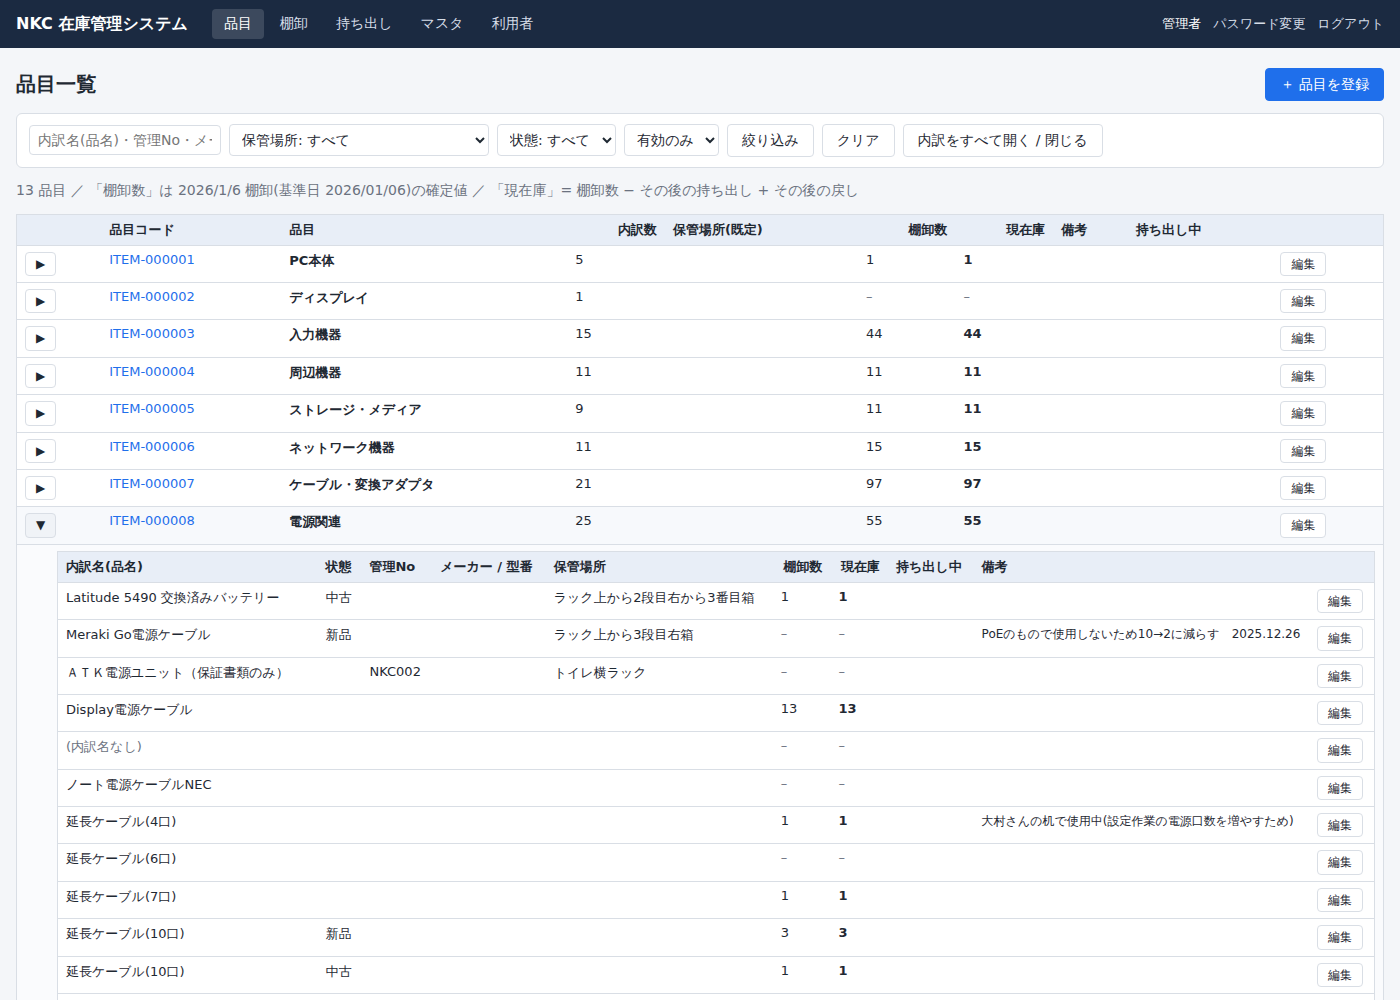
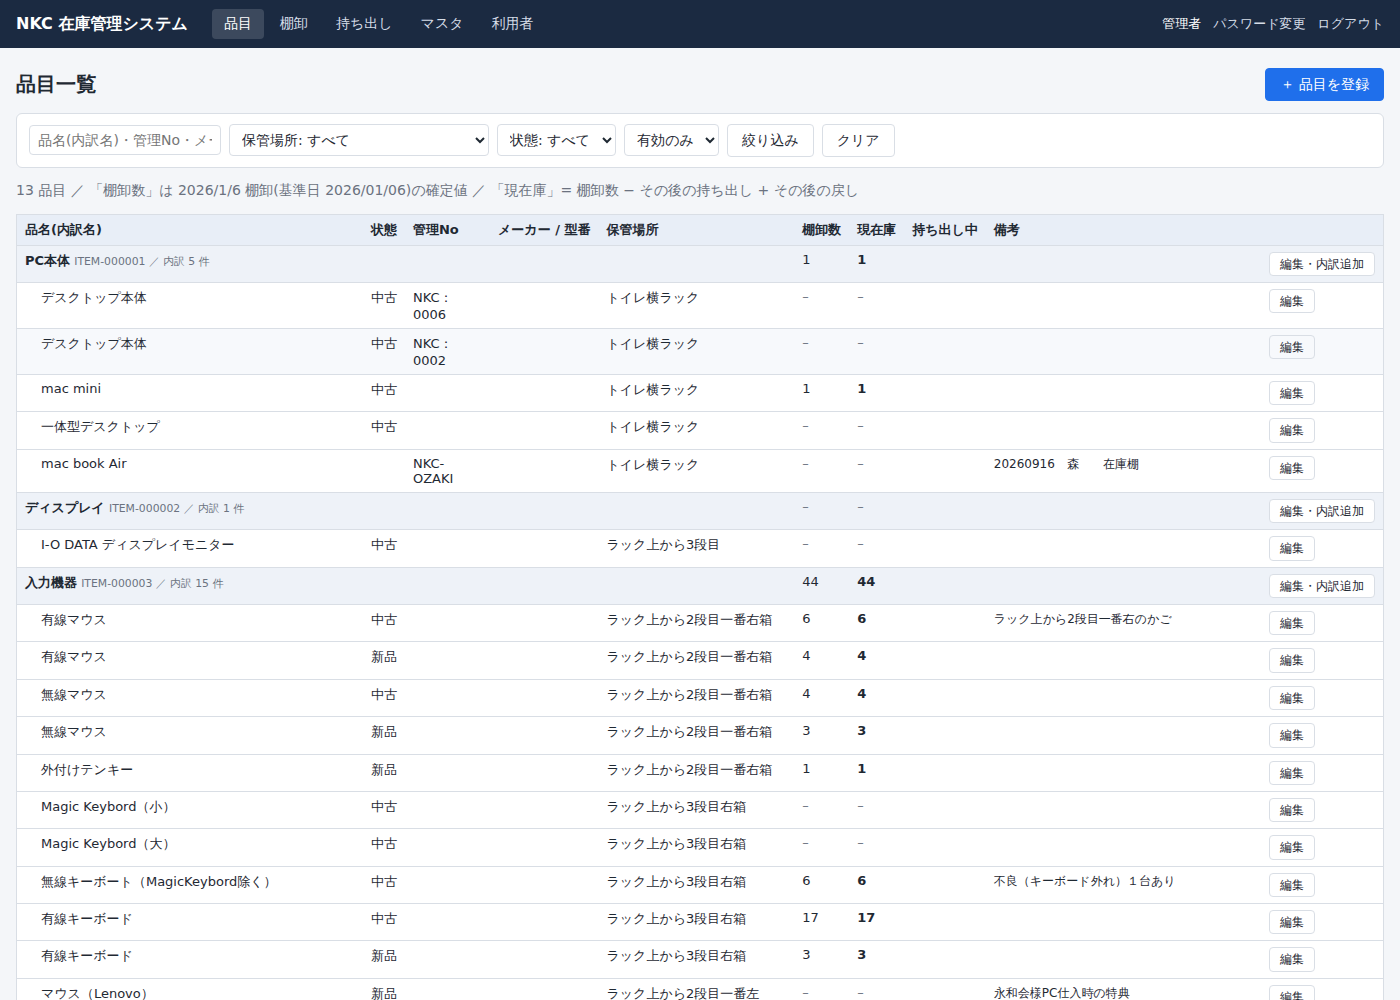
品目一覧: 開閉ボタンを廃止し、品目の見出し行の下に内訳(品名)を常に表示
Claude-Session: https://claude.ai/code/session_01Ri3r8gT3MYmawSEEk5gsQq

diff --git a/webapp/assets/style.css b/webapp/assets/style.css
@@ -186,8 +186,8 @@ tr.entry-row.entered .item-name { }
 .table-units td { padding: 4px; }
 
 tr.item-head td { background: #eef2f8; font-size: 13px; }
-tr.unit-rows > td { background: #fafbfd; padding: 6px 8px 10px 40px; }
-.table-inner.table-cards { margin: 0; width: 100%; }
+tr.item-head .item-link { color: inherit; }
+.table-items tr.unit-line td:first-child { padding-left: 24px; }
 .unit-radios { display: inline-flex; gap: 8px; white-space: nowrap; }
 .unit-radios label { display: inline-flex; align-items: center; gap: 2px; }
 .form-grid.wide { max-width: none; }
@@ -241,9 +241,8 @@ tr.unit-rows > td { background: #fafbfd; padding: 6px 8px 10px 40px; }
   .table-cards .w-notes { width: 100%; }
   .table-cards .notes-cell, .table-cards .checkout-cell { max-width: none; }
   .table-cards .unit-list { width: 100%; }
-  tr.unit-rows > td { padding: 4px 0 0; }
   .table-cards tr.item-head { background: #eef2f8; }
-  .table-cards tr.unit-rows { border: none; padding: 0; background: transparent; }
+  .table-items tr.unit-line td:first-child { padding-left: 0; }
   .table-catsum { min-width: 0; }
   .table-catsum th:nth-child(5), .table-catsum td:nth-child(5) { display: none; }   /* 前回合計は省略 */
   .cards-3 { grid-template-columns: 1fr; }

diff --git a/webapp/assets/app.js b/webapp/assets/app.js
@@ -306,25 +306,3 @@
   }
 })();
 
-// ---- 品目一覧: 内訳の開閉 ----
-(function () {
-  'use strict';
-  var toggles = document.querySelectorAll('.unit-toggle');
-  if (!toggles.length) { return; }
-  function setOpen(btn, open) {
-    var rows = document.querySelector('tr.unit-rows[data-item="' + btn.getAttribute('data-item') + '"]');
-    rows.hidden = !open;
-    btn.textContent = open ? '▼' : '▶';
-    btn.setAttribute('aria-expanded', open ? 'true' : 'false');
-  }
-  toggles.forEach(function (btn) {
-    btn.addEventListener('click', function () { setOpen(btn, btn.getAttribute('aria-expanded') !== 'true'); });
-  });
-  var all = document.getElementById('toggle-all-units');
-  if (all) {
-    all.addEventListener('click', function () {
-      var anyClosed = Array.prototype.some.call(toggles, function (b) { return b.getAttribute('aria-expanded') !== 'true'; });
-      toggles.forEach(function (b) { setOpen(b, anyClosed); });
-    });
-  }
-})();

diff --git a/webapp/app/views/items/list.php b/webapp/app/views/items/list.php
@@ -5,58 +5,46 @@
 
 <form method="get" class="filter-bar">
   <input type="hidden" name="page" value="items">
-  <input type="text" name="q" value="<?= h($f['q']) ?>" placeholder="内訳名(品名)・管理No・メーカー・型番・備考" class="w-wide">
+  <input type="text" name="q" value="<?= h($f['q']) ?>" placeholder="品名(内訳名)・管理No・メーカー・型番・備考" class="w-wide">
   <select name="location"><option value="">保管場所: すべて</option><?php foreach ($locations as $l): ?><option value="<?= h($l['id']) ?>" <?= $f['location'] == $l['id'] ? 'selected' : '' ?>><?= h($l['name']) ?></option><?php endforeach; ?></select>
   <select name="condition"><option value="">状態: すべて</option><?php foreach ($conditions as $c): ?><option value="<?= h($c['code']) ?>" <?= $f['condition'] === $c['code'] ? 'selected' : '' ?>><?= h($c['name']) ?></option><?php endforeach; ?><option value="_none" <?= $f['condition'] === '_none' ? 'selected' : '' ?>>(未設定)</option></select>
   <select name="active"><option value="1" <?= $f['active'] === '1' ? 'selected' : '' ?>>有効のみ</option><option value="0" <?= $f['active'] === '0' ? 'selected' : '' ?>>無効のみ</option><option value="all" <?= $f['active'] === 'all' ? 'selected' : '' ?>>すべて</option></select>
   <button type="submit" class="btn">絞り込み</button>
   <a href="<?= h(url('items')) ?>" class="btn btn-ghost">クリア</a>
-  <button type="button" class="btn btn-ghost" id="toggle-all-units">内訳をすべて開く / 閉じる</button>
 </form>
 
 <p class="muted"><?= count($items) ?> 品目<?php if ($latest): ?> ／ 「棚卸数」は <?= h($latest['count_name']) ?>(基準日 <?= h(fmt_date($latest['base_date'])) ?>)の確定値 ／ 「現在庫」= 棚卸数 − その後の持ち出し + その後の戻し<?php endif; ?></p>
 
 <div class="table-wrap"><table class="table table-items table-cards">
-  <thead><tr><th></th><th>品目コード</th><th>品目</th><th class="num">内訳数</th><th>保管場所(既定)</th><th class="num">棚卸数</th><th class="num">現在庫</th><th>備考</th><th>持ち出し中</th><th></th></tr></thead>
+  <thead><tr><th>品名(内訳名)</th><th>状態</th><th>管理No</th><th>メーカー / 型番</th><th>保管場所</th><th class="num">棚卸数</th><th class="num">現在庫</th><th>持ち出し中</th><th>備考</th><th></th></tr></thead>
   <tbody>
   <?php foreach ($items as $i): $iid = (int)$i['id']; $s = stock_for($stock, $iid); $units = $unitsByItem[$iid] ?? []; ?>
-    <tr class="item-row <?= (int)$i['is_active'] ? '' : 'row-inactive' ?>" data-item="<?= $iid ?>">
-      <td data-label=""><button type="button" class="btn btn-sm unit-toggle" data-item="<?= $iid ?>" aria-expanded="<?= $expandAll ? 'true' : 'false' ?>"><?= $expandAll ? '▼' : '▶' ?></button></td>
-      <td class="nowrap" data-label="品目コード"><a href="<?= h(url('item', ['id' => $iid])) ?>"><?= h($i['item_code']) ?></a></td>
-      <td data-label="品目"><strong><?= h($i['item_name']) ?></strong><?= (int)$i['is_active'] ? '' : ' <span class="badge badge-off">無効</span>' ?><?= $i['category_name'] !== null && $i['category_name'] !== $i['item_name'] ? '<br><small class="muted">カテゴリ: ' . h($i['category_name']) . '</small>' : '' ?></td>
-      <td class="num" data-label="内訳数"><?= count($units) ?></td>
-      <td data-label="保管場所"><?= h($i['location_name']) ?></td>
-      <td class="num" data-label="棚卸数"><?= $s['latest_qty'] === null ? '<span class="muted">–</span>' : h($s['latest_qty']) ?></td>
-      <td class="num" data-label="現在庫"><?= $s['current'] === null ? '<span class="muted">–</span>' : '<strong>' . h($s['current']) . '</strong>' ?></td>
+    <tr class="item-head <?= (int)$i['is_active'] ? '' : 'row-inactive' ?>" data-item="<?= $iid ?>">
+      <td colspan="4" data-label="品目"><a href="<?= h(url('item', ['id' => $iid])) ?>" class="item-link"><strong><?= h($i['item_name']) ?></strong></a> <small class="muted"><?= h($i['item_code']) ?> ／ 内訳 <?= count($units) ?> 件</small><?= (int)$i['is_active'] ? '' : ' <span class="badge badge-off">無効</span>' ?><?= $i['category_name'] !== null && $i['category_name'] !== $i['item_name'] ? ' <small class="muted">(カテゴリ: ' . h($i['category_name']) . ')</small>' : '' ?></td>
+      <td data-label="保管場所(既定)"><?= h($i['location_name']) ?></td>
+      <td class="num" data-label="棚卸数(合計)"><?= $s['latest_qty'] === null ? '<span class="muted">–</span>' : h($s['latest_qty']) ?></td>
+      <td class="num" data-label="現在庫(合計)"><?= $s['current'] === null ? '<span class="muted">–</span>' : '<strong>' . h($s['current']) . '</strong>' ?></td>
+      <td class="checkout-cell" data-label="持ち出し中"><?= $s['open_qty'] ? '<span class="badge badge-out">' . h($s['open_qty']) . ' 件</span>' : '' ?></td>
       <td class="notes-cell" data-label="備考"><?= nl2br(h($i['notes'])) ?></td>
-      <td class="checkout-cell" data-label="持ち出し中"><?php foreach ($s['open'] as $co): ?><span class="badge badge-out"><?= h(checkout_label($co)) ?></span><?php endforeach; ?></td>
-      <td class="nowrap" data-label=""><a class="btn btn-sm" href="<?= h(url('item', ['action' => 'edit', 'id' => $iid])) ?>">編集</a></td>
+      <td class="nowrap" data-label=""><a class="btn btn-sm" href="<?= h(url('item', ['action' => 'edit', 'id' => $iid])) ?>">編集・内訳追加</a></td>
     </tr>
-    <tr class="unit-rows" data-item="<?= $iid ?>" <?= $expandAll ? '' : 'hidden' ?>>
-      <td colspan="10" data-label="">
-        <?php if (!$units): ?><span class="muted">内訳はありません。<a href="<?= h(url('item', ['action' => 'edit', 'id' => $iid])) ?>">編集</a>から追加できます。</span><?php else: ?>
-        <table class="table table-inner table-cards">
-          <thead><tr><th>内訳名(品名)</th><th>状態</th><th>管理No</th><th>メーカー / 型番</th><th>保管場所</th><th class="num">棚卸数</th><th class="num">現在庫</th><th>持ち出し中</th><th>備考</th><th></th></tr></thead>
-          <tbody>
-          <?php foreach ($units as $u): $us = stock_for($unitStock, (int)$u['id']); ?>
-            <tr>
-              <td data-label="内訳名"><?= $u['name'] === null ? '<span class="muted">(内訳名なし)</span>' : h($u['name']) ?></td>
-              <td data-label="状態"><?= h(condition_name($u['condition_code'])) ?></td>
-              <td data-label="管理No"><?= h($u['management_no']) ?><?= $u['status'] !== 'in_stock' ? ' <span class="badge">' . h(unit_status_label($u['status'])) . '</span>' : '' ?></td>
-              <td data-label="メーカー/型番"><?= h(trim(($u['manufacturer'] ?? '') . ' ' . ($u['model_number'] ?? ''))) ?></td>
-              <td data-label="保管場所"><?= h($u['location_name']) ?></td>
-              <td class="num" data-label="棚卸数"><?= $us['latest_qty'] === null ? '<span class="muted">–</span>' : h($us['latest_qty']) ?></td>
-              <td class="num" data-label="現在庫"><?= $us['current'] === null ? '<span class="muted">–</span>' : '<strong>' . h($us['current']) . '</strong>' ?></td>
-              <td class="checkout-cell" data-label="持ち出し中"><?php foreach ($us['open'] as $co): ?><span class="badge badge-out"><?= h(checkout_label($co, false)) ?></span><?php endforeach; ?></td>
-              <td class="notes-cell" data-label="備考"><?= nl2br(h($u['notes'])) ?></td>
-              <td class="nowrap" data-label=""><a class="btn btn-sm btn-ghost" href="<?= h(url('unit', ['action' => 'edit', 'id' => $u['id']])) ?>">編集</a></td>
-            </tr>
-          <?php endforeach; ?>
-          </tbody>
-        </table>
-        <?php endif; ?>
-      </td>
-    </tr>
+    <?php if (!$units): ?>
+    <tr class="unit-line"><td colspan="10" class="muted" data-label="">内訳はありません。「編集・内訳追加」から追加できます。</td></tr>
+    <?php endif; ?>
+    <?php foreach ($units as $u): $us = stock_for($unitStock, (int)$u['id']); ?>
+      <tr class="unit-line" data-item="<?= $iid ?>">
+        <td data-label="品名"><?= $u['name'] === null ? '<span class="muted">(内訳名なし)</span>' : h($u['name']) ?></td>
+        <td data-label="状態"><?= h(condition_name($u['condition_code'])) ?></td>
+        <td data-label="管理No"><?= h($u['management_no']) ?><?= $u['status'] !== 'in_stock' ? ' <span class="badge">' . h(unit_status_label($u['status'])) . '</span>' : '' ?></td>
+        <td data-label="メーカー/型番"><?= h(trim(($u['manufacturer'] ?? '') . ' ' . ($u['model_number'] ?? ''))) ?></td>
+        <td data-label="保管場所"><?= h($u['location_name']) ?></td>
+        <td class="num" data-label="棚卸数"><?= $us['latest_qty'] === null ? '<span class="muted">–</span>' : h($us['latest_qty']) ?></td>
+        <td class="num" data-label="現在庫"><?= $us['current'] === null ? '<span class="muted">–</span>' : '<strong>' . h($us['current']) . '</strong>' ?></td>
+        <td class="checkout-cell" data-label="持ち出し中"><?php foreach ($us['open'] as $co): ?><span class="badge badge-out"><?= h(checkout_label($co, false)) ?></span><?php endforeach; ?></td>
+        <td class="notes-cell" data-label="備考"><?= nl2br(h($u['notes'])) ?></td>
+        <td class="nowrap" data-label=""><a class="btn btn-sm btn-ghost" href="<?= h(url('unit', ['action' => 'edit', 'id' => $u['id']])) ?>">編集</a></td>
+      </tr>
+    <?php endforeach; ?>
   <?php endforeach; ?>
   </tbody>
 </table></div>

diff --git a/webapp/app/controllers/items.php b/webapp/app/controllers/items.php
@@ -38,7 +38,6 @@ if ($page === 'items') {
         'location'  => input_int('location', $_GET),
         'condition' => input_str('condition', $_GET, 20),
         'active'    => input_str('active', $_GET, 5) ?? '1',
-        'expand'    => input_str('expand', $_GET, 3),
     ];
     $where = [];
     $params = [];
@@ -76,7 +75,7 @@ if ($page === 'items') {
     $unitStock = unit_stock_summary($allUnitIds);
     $latest = latest_confirmed_count();
     render('items/list', ['title' => '品目一覧', 'items' => $items, 'unitsByItem' => $unitsByItem, 'f' => $f, 'latest' => $latest,
-                          'stock' => $stock, 'unitStock' => $unitStock, 'expandAll' => $filtering || $f['expand'] === '1'] + item_masters());
+                          'stock' => $stock, 'unitStock' => $unitStock] + item_masters());
 }
 
 // ---------------------------------------------------------------- 詳細

diff --git a/webapp/app/bootstrap.php b/webapp/app/bootstrap.php
@@ -15,7 +15,7 @@ if (is_file(APP_DIR . '/config.local.php')) {
     }
 }
 define('APP_NAME', $config['app']['name']);
-define('APP_VERSION', '2026-09-28.7');   // 画面下部に表示。アップロード漏れの確認用(更新のたびに上げる)
+define('APP_VERSION', '2026-09-28.8');   // 画面下部に表示。アップロード漏れの確認用(更新のたびに上げる)
 date_default_timezone_set($config['app']['timezone']);
 
 require APP_DIR . '/lib/db.php';

diff --git a/docs/07_XServer導入手順.md b/docs/07_XServer導入手順.md
@@ -69,7 +69,7 @@ return [
 
 ## 6. 動作確認
 
-- 「品目」メニューで 12 件の品目(カテゴリ)が表示され、▶ を押すと内訳(Excel の各行)が出る。内訳名が空欄の1件は「(内訳名なし)」と表示(Excel 73 行目)。
+- 「品目」メニューで 12 件の品目(カテゴリ)の見出しと、その下に内訳(Excel の各行の品名)が表示される。内訳名が空欄の1件は「(内訳名なし)」と表示(Excel 73 行目)。
 - 「棚卸」メニューで「2025/12/26 棚卸」「2026/1/6 棚卸」が確定済で表示される。
 - 「利用者」メニューから他の利用者を追加し、必要な権限にチェックを入れる。
 
@@ -91,6 +91,7 @@ return [
 | 更新日 | 内容 | 実行するSQL(すでに 001 を実行済みの環境) |
 |---|---|---|
 | 2026-09-18 | 持ち出し・戻し機能、現在庫表示、スマホ対応 | `sql/004_add_checkouts.sql` |
+| 2026-09-28 (版 .8) | 品目一覧で内訳(品名)を常に表示、開閉ボタン廃止 | なし |
 | 2026-09-28 (版 .7) | **構造変更**: 品目=カテゴリ、内訳=実物の種類・個体。棚卸は内訳ごとに入力、持ち出しは内訳単位 | **`sql/006_restructure_items_by_category.sql`**(必須。実行前に phpMyAdmin でエクスポートしてバックアップ。004 未実行なら先に 004、カテゴリ未設定の内訳を「その他」以外にしたければ 005 を先に) |
 | 2026-09-28 (版 .6) | 品目登録・編集画面で個体(管理No等)をその場で複数行入力 | なし |
 | 2026-09-28 (版 .5) | サーバー専用設定 `app/config.local.php` 方式に変更。接続エラー時は案内画面を表示 | なし。`config.local.php` を作成(手順3) |
